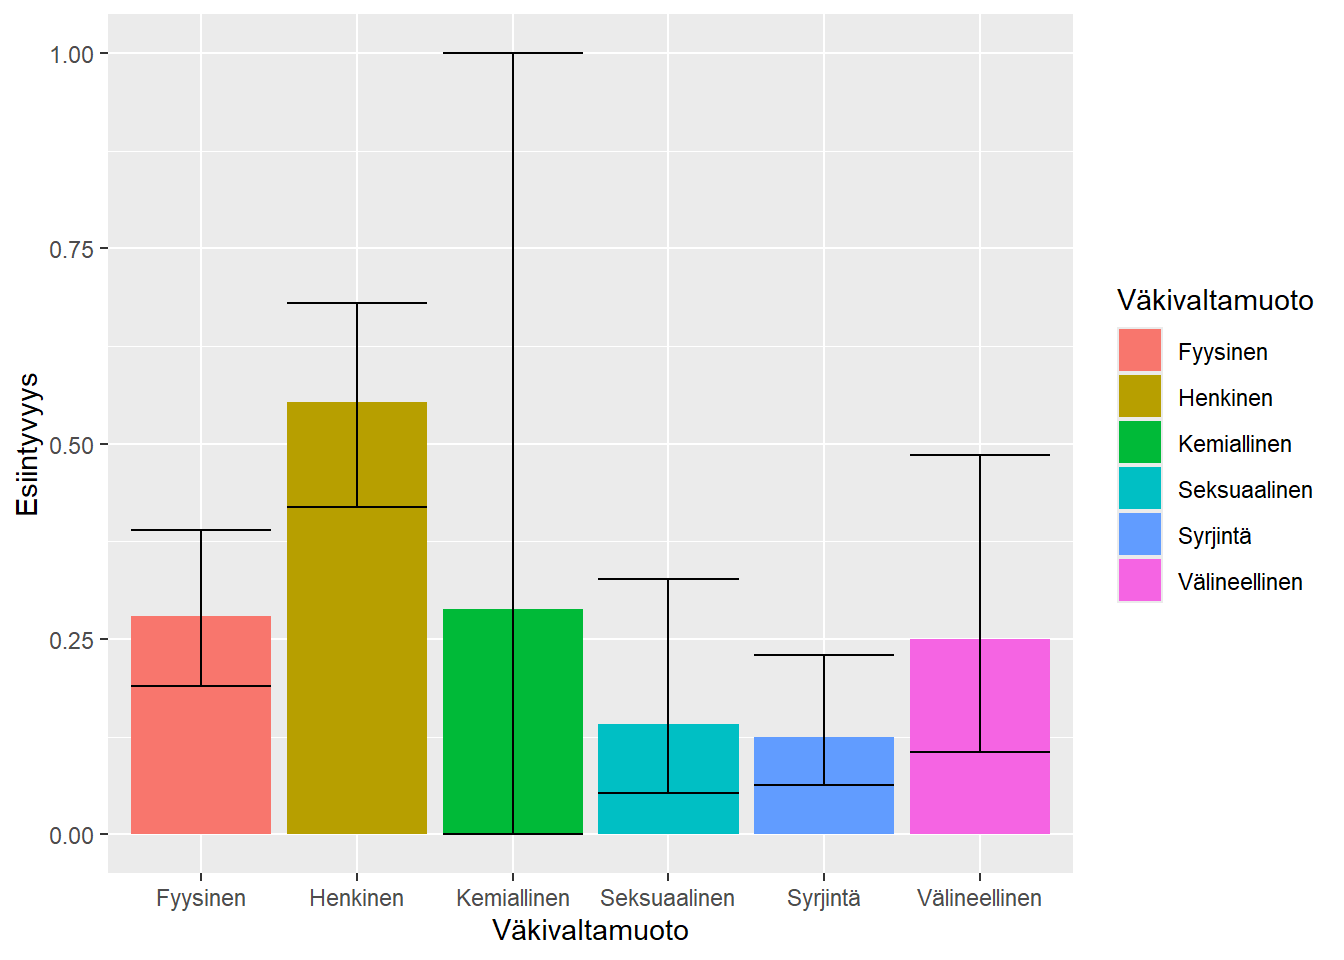
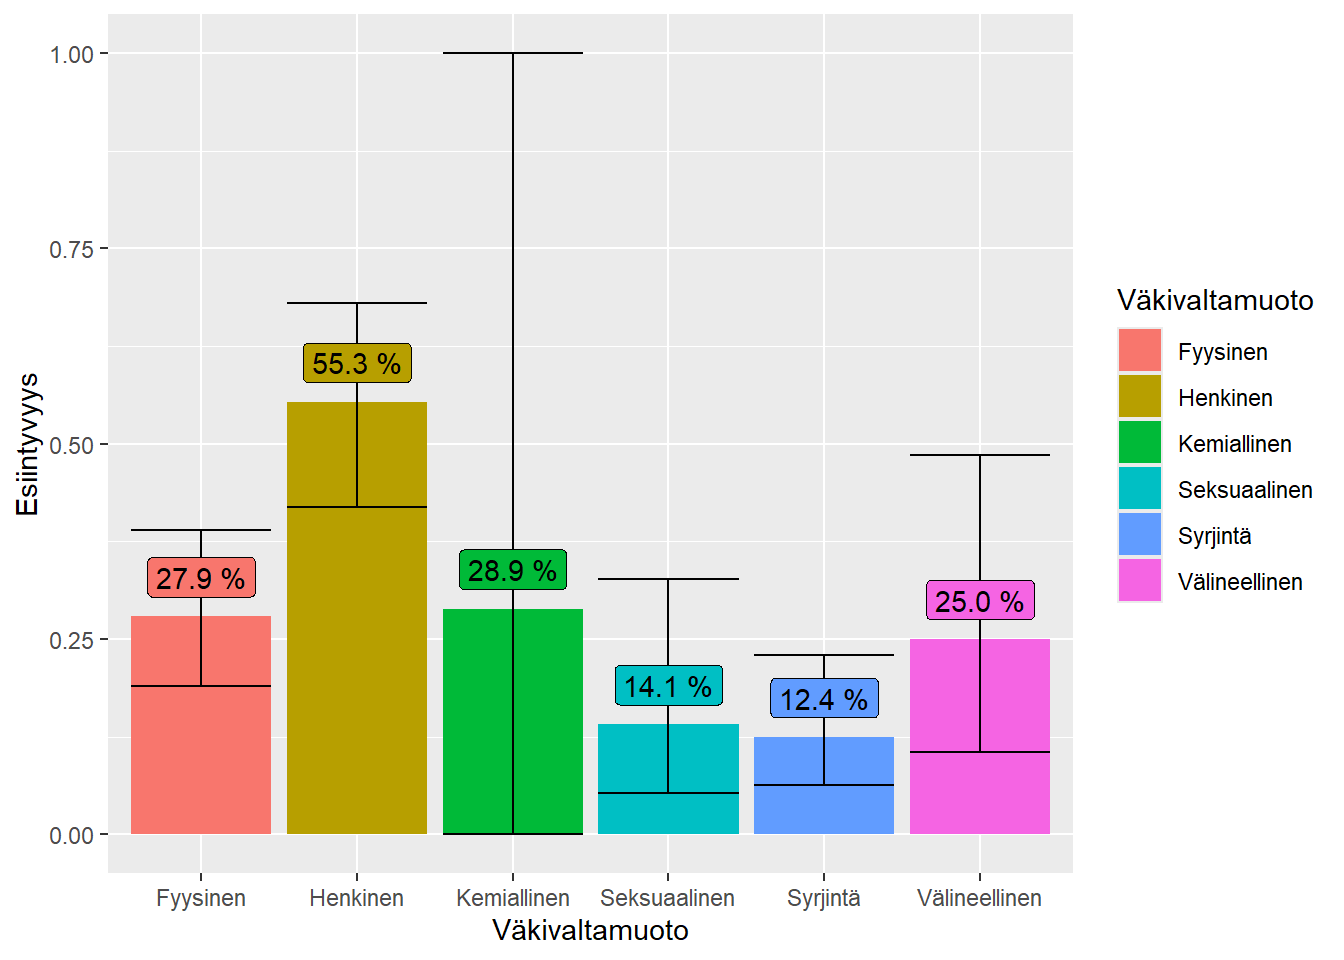
Renderöi katsausartikkeli uudelleen

diff --git a/docs/katsausartikkeli.html b/docs/katsausartikkeli.html
@@ -489,7 +489,7 @@ div.csl-indent {
 </details>
 <div id="fig-art-prismakaavio" class="quarto-figure quarto-figure-center anchored">
 <figure class="figure">
-<div class="grViz html-widget html-fill-item" id="htmlwidget-d63fc0f32b3adaeef1b4" style="width:100%;height:464px;"></div>
+<div class="grViz html-widget html-fill-item" id="htmlwidget-7070627f3425b7283b5b" style="width:100%;height:464px;"></div>
 <script>
 HTMLWidgets.addPostRenderHandler(function() {
 
@@ -508,7 +508,7 @@ HTMLWidgets.addPostRenderHandler(function() {
     
 });
 </script>
-<script type="application/json" data-for="htmlwidget-d63fc0f32b3adaeef1b4">{"x":{"diagram":"digraph TD {\n        graph[\n          splines = ortho,\n          layout = neato,\n          tooltip = \"Click the boxes for further information\",\n          outputorder = edgesfirst,\n        ]node [\n        shape = box,\n        fontsize = 11,\n        fontname = Helvetica,\n        color = Goldenrod1\n      ]\n      identification [\n        color = LightSteelBlue2,\n        label = \" \",\n        style = \"filled,rounded\",\n        pos = \"0,8.625!\",\n        width = 0.4,\n        height = 1.25,\n        tooltip = \"Sininen tunnistamisen laatikko\"\n      ];\n      screening [\n        color = LightSteelBlue2,\n        label = \" \",\n        style = \"filled,rounded\",\n        pos = \"0,5!\",\n        width = 0.4,\n        height = 4,\n        tooltip = \"Sininen seulonnan laatikko\"\n      ];\n      included [\n        color = LightSteelBlue2,\n        label = \" \",\n        style = \"filled,rounded\",\n        pos = \"0,1.25!\",\n        width = 0.4,\n        height = 2,\n        tooltip = \"Sininen sisällytettyjen laatikko\"\n      ];\nnode [\n          shape = box,\n          fontsize = 11,\n          fontname = Helvetica,\n          color = Goldenrod1]\n        3 [\n          label = \"Uusien tutkimusten tunnistaminen tietokantojen ja rekistereiden avulla\",\n          style = \"rounded,filled\",\n          width = 7.5,\n          height = 0.4,\n          pos = \"4.25,9.95!\",\n          tooltip = \"Keltainen otsikkolaatikko; Uusien tutkimusten tunnistaminen tietokantojen ja rekistereiden avulla\"\n        ]\n        node [\n          shape = box,\n          fontname = Helvetica,\n          color = Black]\n        4 [\n          label = \"Records identified from:\nTietokannat (n = 6,651)\nRekisterit (n = 0)\",\n          width = 3.5,\n          height = 0.75,\n          pos = \"2.25,8.625!\",\n          tooltip = \"Tietueet tunnistettu: tietokannoista ja rekistereistä\"\n        ]\n        node [\n          shape = box,\n          fontname = Helvetica,\n          color = Black]\n        5 [\n          label = \"Records removed before screening:\nKaksoiskappaleet (n = 1,215)\nAutomaatiotyökaluilla sopimattomiksi\nmerkityt tietueet (n = 0)\nMuista syistä poistetut tietueet (n = 0)\",\n          width = 3.5,\n          height = 0.5,\n          pos = \"6.25,8.625!\",\n          tooltip = \"Kaksoiskappaleet\"\n        ]\n        node [\n          shape = box,\n          fontname = Helvetica,\n          color = Black\n        ]\n        6 [\n          label = \"Seulotut tietueet\n(n = 5,436)\",\n          width = 3.5,\n          height = 0.5,\n          pos = \"2.25,6.75!\",\n          tooltip = \"Seulotut tietueet (tietokannat ja rekisterit)\"\n        ]\n        node [\n          shape = box,\n          fontname = Helvetica,\n          color = Black\n        ]\n        7 [\n          label = \"Poissuljetut tietueet\n(n = 5,200)\",\n          width = 3.5,\n          height = 0.5,\n          pos = \"6.25,6.75!\",\n          tooltip = \"Poissuljetut tietueet (tietokannat ja rekisterit)\"\n        ]\n        node [\n          shape = box,\n          fontname = Helvetica,\n          color = Black]\n        8 [\n          label = \"Haettavat raportit\n(n = 236)\",\n          width = 3.5,\n          height = 0.5,\n          pos = \"2.25,5.75!\",\n          tooltip = \"Haettavat raportit (tietokannat ja rekisterit)\"\n        ]\n        node [\n          shape = box,\n          fontname = Helvetica,\n          color = Black]\n        9 [\n          label = \"Hakematta jääneet raportit\n(n = 19)\",\n          width = 3.5,\n          height = 0.5,\n          pos = \"6.25,5.75!\",\n          tooltip = \"Hakematta jääneet raportit (tietokannat ja rekisterit)\"\n        ]\n        node [\n          shape = box,\n          fontname = Helvetica,\n          color = Black]\n        10 [\n          label = \"Kelpoisuudeltaan tarkistetut raportit\n(n = 217)\",\n          width = 3.5,\n          height = 0.5,\n          pos = \"2.25,4!\",\n          tooltip = \"Kelpoisuudeltaan tarkistetut raportit (tietokannat ja rekisterit)\"\n        ]\n        node [\n          shape = box,\n          fontname = Helvetica,\n          color = Black,\n          fillcolor = White,\n          style = filled\n        ]\n        11 [\n          label = \"Poissuljetut raportit:\nAihe (n = 31)\nAineistomuoto (n = 18)\nKohderyhmä (n = 36)\nMaantiede (n = 23)\nJulkaisutyyppi (n = 6)\nAjankohta (n = 2)\nMonisyinen (n = 41)\",\n          width = 3.5,\n          height = 0.5,\n          pos = \"6.25,4!\",\n          tooltip = \"Poissuljetut raportit (tietokannat ja rekisterit)\"\n        ]\n        node [\n          shape = box,\n          fontname = Helvetica,\n          color = Black,\n          fillcolor = \"\",\n          style = solid\n        ]\n        12 [\n          label = \"Katsaukseen sisällytetyt uudet\ntutkimukset\n(n = 61)\nRaportit katsaukseen sisällytetyistä\nuusista tutkimuksista\n(n = 0)\",\n          width = 3.5,\n          height = 1.5,\n          pos = \"2.25,1.25!\",\n          tooltip = \"Katsaukseen sisällytetyt uudet tutkimukset\"\n        ]node [\n        shape = box,\n        fontname = Helvetica,\n        color = Gainsboro]\n      13 [\n        label = \"Uusien tutkimusten tunnistaminen muilla menetemillä\",\n        style = \"rounded,filled\",\n        width = 7.5,\n        height = 0.4,\n        pos = \"12.25,9.95!\",\n        tooltip = \"Harmaa otsikkolaatikko; Uusien tutkimusten tunnistaminen muilla menetemillä\"\n      ]\n      node [\n        shape = box,\n        fontname = Helvetica,\n        color = Gainsboro]\n      14 [\n        label = \"Records identified from:\nVerkkosivut (n = 0)\nOrganisaatiot (n = 7)\nViitehakeminen (n = 0)\",\n        style = \"filled\",\n        width = 3.5,\n        height = 1,\n        pos = \"10.25,8.625!\",\n        tooltip = \"Tietueet tunnistettu: verkkosivuilta, organisaatioilta ja viitehakemisella\"\n      ]\n      node [\n        shape = box,\n        fontname = Helvetica,\n        color = Gainsboro]\n      15 [\n        label = \"Haettavat raportit\n(n = 7)\",\n        style = \"filled\",\n        width = 3.5,\n        height = 0.5,\n        pos = \"10.25,5.75!\",\n        tooltip = \"Haettavat raportit (muut)\"\n      ]\n      node [\n        shape = box,\n        fontname = Helvetica,\n        color = Gainsboro]\n      16 [\n        label = \"Hakematta jääneet raportit\n(n = 0)\",\n        style = \"filled\",\n        width = 3.5,\n        height = 0.5,\n        pos = \"14.25,5.75!\",\n        tooltip = \"Hakematta jääneet raportit (muut)\"\n      ]\n      node [\n        shape = box,\n        fontname = Helvetica,\n        color = Gainsboro\n      ]\n      17 [\n        label = \"Kelpoisuudeltaan tarkistetut raportit\n(n = 7)\",\n        style = \"filled\",\n        width = 3.5,\n        height = 0.5,\n        pos = \"10.25,4!\",\n        tooltip = \"Kelpoisuudeltaan tarkistetut raportit (muu)\"\n      ]\n      node [\n        shape = box,\n        fontname = Helvetica,\n        color = Gainsboro]\n      18 [\n        label = \"Poissuljetut raportit:\nAihe (n = 4)\nKohderyhmä (n = 1)\nMonisyinen (n = 1)\",\n        style = \"filled\",\n        width = 3.5,\n        height = 1,\n        pos = \"14.25,4!\",\n        tooltip = \"Poissuljetut raportit (muu)\"\n      ]\nnode [\n          shape = square,\n          width = 0,\n          color=White\n        ]\n\nB [\n        label = \"\",\n        pos = \"10.25,1.25!\",\n        tooltip = \"\"\n      ]\nnode [\n          shape = square,\n          width = 0,\n          style=invis\n        ]\n        C [\n          label = \"\",\n          width = 3.5,\n          height = 0.5,\n          pos = \"6.25,4!\",\n          tooltip = \"\"\n        ]\n        subgraph cluster1 {\n          edge [\n            style = invis\n          ]\n          3->4;\n          3->5;\n          edge [\n            color = Black,\n            arrowhead = normal,\n            arrowtail = none,\n            style = filled\n          ]\n          4->5;\n          4->6;\n          6->7;\n          6->8;\n          8->9;\n          8->10;\n          10->C;\n          10->12;\n          edge [\n            style = invis\n          ]\n          5->7;\n          7->9;\n          9->11;\n          16->18;\n        }subgraph cluster2 {\n        edge [\n          color = White,\n          arrowhead = none,\n          arrowtail = none\n        ]\n        13->14;\n        edge [\n          color = Black,\n          arrowhead = normal,\n          arrowtail = none]\n        14->15;\n        15->16;\n        15->17;\n        17->18;\n        edge [\n          color = Black,\n          arrowhead = none,\n          arrowtail = none]\n        17->B;\n        edge [\n          color = Black,\n          arrowhead = normal,\n          arrowtail = none,\n          constraint = FALSE\n        ]\n        B->12;\n      }\n\n\n\n{\n          rank = same; 3; 13}\n        {\n          rank = same; 4; 5; 14}\n        {\n          rank = same; 6; 7\n        }\n        {\n          rank = same; 8; 9; 15; 16}\n        {\n          rank = same; 10; 11; 17; 18}\n        {\n          rank = same; 12; B}\n      }","config":{"engine":"dot","options":null}},"evals":[],"jsHooks":[]}</script>
+<script type="application/json" data-for="htmlwidget-7070627f3425b7283b5b">{"x":{"diagram":"digraph TD {\n        graph[\n          splines = ortho,\n          layout = neato,\n          tooltip = \"Click the boxes for further information\",\n          outputorder = edgesfirst,\n        ]node [\n        shape = box,\n        fontsize = 11,\n        fontname = Helvetica,\n        color = Goldenrod1\n      ]\n      identification [\n        color = LightSteelBlue2,\n        label = \" \",\n        style = \"filled,rounded\",\n        pos = \"0,8.625!\",\n        width = 0.4,\n        height = 1.25,\n        tooltip = \"Sininen tunnistamisen laatikko\"\n      ];\n      screening [\n        color = LightSteelBlue2,\n        label = \" \",\n        style = \"filled,rounded\",\n        pos = \"0,5!\",\n        width = 0.4,\n        height = 4,\n        tooltip = \"Sininen seulonnan laatikko\"\n      ];\n      included [\n        color = LightSteelBlue2,\n        label = \" \",\n        style = \"filled,rounded\",\n        pos = \"0,1.25!\",\n        width = 0.4,\n        height = 2,\n        tooltip = \"Sininen sisällytettyjen laatikko\"\n      ];\nnode [\n          shape = box,\n          fontsize = 11,\n          fontname = Helvetica,\n          color = Goldenrod1]\n        3 [\n          label = \"Uusien tutkimusten tunnistaminen tietokantojen ja rekistereiden avulla\",\n          style = \"rounded,filled\",\n          width = 7.5,\n          height = 0.4,\n          pos = \"4.25,9.95!\",\n          tooltip = \"Keltainen otsikkolaatikko; Uusien tutkimusten tunnistaminen tietokantojen ja rekistereiden avulla\"\n        ]\n        node [\n          shape = box,\n          fontname = Helvetica,\n          color = Black]\n        4 [\n          label = \"Records identified from:\nTietokannat (n = 6,651)\nRekisterit (n = 0)\",\n          width = 3.5,\n          height = 0.75,\n          pos = \"2.25,8.625!\",\n          tooltip = \"Tietueet tunnistettu: tietokannoista ja rekistereistä\"\n        ]\n        node [\n          shape = box,\n          fontname = Helvetica,\n          color = Black]\n        5 [\n          label = \"Records removed before screening:\nKaksoiskappaleet (n = 1,215)\nAutomaatiotyökaluilla sopimattomiksi\nmerkityt tietueet (n = 0)\nMuista syistä poistetut tietueet (n = 0)\",\n          width = 3.5,\n          height = 0.5,\n          pos = \"6.25,8.625!\",\n          tooltip = \"Kaksoiskappaleet\"\n        ]\n        node [\n          shape = box,\n          fontname = Helvetica,\n          color = Black\n        ]\n        6 [\n          label = \"Seulotut tietueet\n(n = 5,436)\",\n          width = 3.5,\n          height = 0.5,\n          pos = \"2.25,6.75!\",\n          tooltip = \"Seulotut tietueet (tietokannat ja rekisterit)\"\n        ]\n        node [\n          shape = box,\n          fontname = Helvetica,\n          color = Black\n        ]\n        7 [\n          label = \"Poissuljetut tietueet\n(n = 5,200)\",\n          width = 3.5,\n          height = 0.5,\n          pos = \"6.25,6.75!\",\n          tooltip = \"Poissuljetut tietueet (tietokannat ja rekisterit)\"\n        ]\n        node [\n          shape = box,\n          fontname = Helvetica,\n          color = Black]\n        8 [\n          label = \"Haettavat raportit\n(n = 236)\",\n          width = 3.5,\n          height = 0.5,\n          pos = \"2.25,5.75!\",\n          tooltip = \"Haettavat raportit (tietokannat ja rekisterit)\"\n        ]\n        node [\n          shape = box,\n          fontname = Helvetica,\n          color = Black]\n        9 [\n          label = \"Hakematta jääneet raportit\n(n = 19)\",\n          width = 3.5,\n          height = 0.5,\n          pos = \"6.25,5.75!\",\n          tooltip = \"Hakematta jääneet raportit (tietokannat ja rekisterit)\"\n        ]\n        node [\n          shape = box,\n          fontname = Helvetica,\n          color = Black]\n        10 [\n          label = \"Kelpoisuudeltaan tarkistetut raportit\n(n = 217)\",\n          width = 3.5,\n          height = 0.5,\n          pos = \"2.25,4!\",\n          tooltip = \"Kelpoisuudeltaan tarkistetut raportit (tietokannat ja rekisterit)\"\n        ]\n        node [\n          shape = box,\n          fontname = Helvetica,\n          color = Black,\n          fillcolor = White,\n          style = filled\n        ]\n        11 [\n          label = \"Poissuljetut raportit:\nAihe (n = 31)\nAineistomuoto (n = 18)\nKohderyhmä (n = 36)\nMaantiede (n = 23)\nJulkaisutyyppi (n = 6)\nAjankohta (n = 2)\nMonisyinen (n = 41)\",\n          width = 3.5,\n          height = 0.5,\n          pos = \"6.25,4!\",\n          tooltip = \"Poissuljetut raportit (tietokannat ja rekisterit)\"\n        ]\n        node [\n          shape = box,\n          fontname = Helvetica,\n          color = Black,\n          fillcolor = \"\",\n          style = solid\n        ]\n        12 [\n          label = \"Katsaukseen sisällytetyt uudet\ntutkimukset\n(n = 61)\nRaportit katsaukseen sisällytetyistä\nuusista tutkimuksista\n(n = 0)\",\n          width = 3.5,\n          height = 1.5,\n          pos = \"2.25,1.25!\",\n          tooltip = \"Katsaukseen sisällytetyt uudet tutkimukset\"\n        ]node [\n        shape = box,\n        fontname = Helvetica,\n        color = Gainsboro]\n      13 [\n        label = \"Uusien tutkimusten tunnistaminen muilla menetemillä\",\n        style = \"rounded,filled\",\n        width = 7.5,\n        height = 0.4,\n        pos = \"12.25,9.95!\",\n        tooltip = \"Harmaa otsikkolaatikko; Uusien tutkimusten tunnistaminen muilla menetemillä\"\n      ]\n      node [\n        shape = box,\n        fontname = Helvetica,\n        color = Gainsboro]\n      14 [\n        label = \"Records identified from:\nVerkkosivut (n = 0)\nOrganisaatiot (n = 7)\nViitehakeminen (n = 0)\",\n        style = \"filled\",\n        width = 3.5,\n        height = 1,\n        pos = \"10.25,8.625!\",\n        tooltip = \"Tietueet tunnistettu: verkkosivuilta, organisaatioilta ja viitehakemisella\"\n      ]\n      node [\n        shape = box,\n        fontname = Helvetica,\n        color = Gainsboro]\n      15 [\n        label = \"Haettavat raportit\n(n = 7)\",\n        style = \"filled\",\n        width = 3.5,\n        height = 0.5,\n        pos = \"10.25,5.75!\",\n        tooltip = \"Haettavat raportit (muut)\"\n      ]\n      node [\n        shape = box,\n        fontname = Helvetica,\n        color = Gainsboro]\n      16 [\n        label = \"Hakematta jääneet raportit\n(n = 0)\",\n        style = \"filled\",\n        width = 3.5,\n        height = 0.5,\n        pos = \"14.25,5.75!\",\n        tooltip = \"Hakematta jääneet raportit (muut)\"\n      ]\n      node [\n        shape = box,\n        fontname = Helvetica,\n        color = Gainsboro\n      ]\n      17 [\n        label = \"Kelpoisuudeltaan tarkistetut raportit\n(n = 7)\",\n        style = \"filled\",\n        width = 3.5,\n        height = 0.5,\n        pos = \"10.25,4!\",\n        tooltip = \"Kelpoisuudeltaan tarkistetut raportit (muu)\"\n      ]\n      node [\n        shape = box,\n        fontname = Helvetica,\n        color = Gainsboro]\n      18 [\n        label = \"Poissuljetut raportit:\nAihe (n = 4)\nKohderyhmä (n = 1)\nMonisyinen (n = 1)\",\n        style = \"filled\",\n        width = 3.5,\n        height = 1,\n        pos = \"14.25,4!\",\n        tooltip = \"Poissuljetut raportit (muu)\"\n      ]\nnode [\n          shape = square,\n          width = 0,\n          color=White\n        ]\n\nB [\n        label = \"\",\n        pos = \"10.25,1.25!\",\n        tooltip = \"\"\n      ]\nnode [\n          shape = square,\n          width = 0,\n          style=invis\n        ]\n        C [\n          label = \"\",\n          width = 3.5,\n          height = 0.5,\n          pos = \"6.25,4!\",\n          tooltip = \"\"\n        ]\n        subgraph cluster1 {\n          edge [\n            style = invis\n          ]\n          3->4;\n          3->5;\n          edge [\n            color = Black,\n            arrowhead = normal,\n            arrowtail = none,\n            style = filled\n          ]\n          4->5;\n          4->6;\n          6->7;\n          6->8;\n          8->9;\n          8->10;\n          10->C;\n          10->12;\n          edge [\n            style = invis\n          ]\n          5->7;\n          7->9;\n          9->11;\n          16->18;\n        }subgraph cluster2 {\n        edge [\n          color = White,\n          arrowhead = none,\n          arrowtail = none\n        ]\n        13->14;\n        edge [\n          color = Black,\n          arrowhead = normal,\n          arrowtail = none]\n        14->15;\n        15->16;\n        15->17;\n        17->18;\n        edge [\n          color = Black,\n          arrowhead = none,\n          arrowtail = none]\n        17->B;\n        edge [\n          color = Black,\n          arrowhead = normal,\n          arrowtail = none,\n          constraint = FALSE\n        ]\n        B->12;\n      }\n\n\n\n{\n          rank = same; 3; 13}\n        {\n          rank = same; 4; 5; 14}\n        {\n          rank = same; 6; 7\n        }\n        {\n          rank = same; 8; 9; 15; 16}\n        {\n          rank = same; 10; 11; 17; 18}\n        {\n          rank = same; 12; B}\n      }","config":{"engine":"dot","options":null}},"evals":[],"jsHooks":[]}</script>
 <figcaption class="figure-caption">Kuva&nbsp;6.1: Systemaattisen krijallisuuskatsauksen PRISMA2020-protokollan mukainen kulkukaavio. Kaavio sisältää tiedot hauista 1-4 ja 6.</figcaption>
 </figure>
 </div>
@@ -1391,13 +1391,18 @@ HTMLWidgets.addPostRenderHandler(function() {
 <span id="cb28-6"><a href="#cb28-6" aria-hidden="true" tabindex="-1"></a>    <span class="at">x =</span> <span class="st">"Väkivaltamuoto"</span>,</span>
 <span id="cb28-7"><a href="#cb28-7" aria-hidden="true" tabindex="-1"></a>    <span class="at">y =</span> <span class="st">"Esiintyvyys"</span>,</span>
 <span id="cb28-8"><a href="#cb28-8" aria-hidden="true" tabindex="-1"></a>    <span class="at">fill =</span> <span class="st">"Väkivaltamuoto"</span></span>
-<span id="cb28-9"><a href="#cb28-9" aria-hidden="true" tabindex="-1"></a>  )</span></code><button title="Kopioi leikepöydälle" class="code-copy-button"><i class="bi"></i></button></pre></div>
+<span id="cb28-9"><a href="#cb28-9" aria-hidden="true" tabindex="-1"></a>  ) <span class="sc">+</span></span>
+<span id="cb28-10"><a href="#cb28-10" aria-hidden="true" tabindex="-1"></a>  <span class="fu">geom_label</span>(</span>
+<span id="cb28-11"><a href="#cb28-11" aria-hidden="true" tabindex="-1"></a>    <span class="fu">aes</span>(<span class="at">label =</span> <span class="fu">paste</span>(<span class="fu">format</span>(arvo<span class="sc">*</span><span class="dv">100</span>, <span class="at">digits =</span> <span class="dv">3</span>), <span class="st">"%"</span>)),</span>
+<span id="cb28-12"><a href="#cb28-12" aria-hidden="true" tabindex="-1"></a>    <span class="at">vjust =</span> <span class="sc">-</span><span class="fl">0.5</span>,</span>
+<span id="cb28-13"><a href="#cb28-13" aria-hidden="true" tabindex="-1"></a>    <span class="at">show.legend =</span> <span class="cn">FALSE</span></span>
+<span id="cb28-14"><a href="#cb28-14" aria-hidden="true" tabindex="-1"></a>  )</span></code><button title="Kopioi leikepöydälle" class="code-copy-button"><i class="bi"></i></button></pre></div>
 </details>
 <div class="cell-output-display">
 <div id="fig-tulokset" class="quarto-figure quarto-figure-center anchored">
 <figure class="figure">
 <p><img src="katsausartikkeli_files/figure-html/fig-tulokset-1.png" class="img-fluid figure-img" width="672"></p>
-<figcaption class="figure-caption">Kuva&nbsp;6.15: Meta-analyysin arvioimat esiintyvyydet ja niiden luottamusvälit (95 %) desimaaleissa</figcaption>
+<figcaption class="figure-caption">Kuva&nbsp;6.15: Meta-analyysin arvioimat esiintyvyydet ja niiden luottamusvälit (95 %)</figcaption>
 </figure>
 </div>
 </div>
@@ -1730,7 +1735,7 @@ window.document.addEventListener("DOMContentLoaded", function (event) {
 <span id="cb29-2"><a href="#cb29-2" aria-hidden="true" tabindex="-1"></a></span>
 <span id="cb29-3"><a href="#cb29-3" aria-hidden="true" tabindex="-1"></a>---</span>
 <span id="cb29-4"><a href="#cb29-4" aria-hidden="true" tabindex="-1"></a>eval: true</span>
-<span id="cb29-5"><a href="#cb29-5" aria-hidden="true" tabindex="-1"></a>freeze: true</span>
+<span id="cb29-5"><a href="#cb29-5" aria-hidden="true" tabindex="-1"></a>freeze: false</span>
 <span id="cb29-6"><a href="#cb29-6" aria-hidden="true" tabindex="-1"></a>format:</span>
 <span id="cb29-7"><a href="#cb29-7" aria-hidden="true" tabindex="-1"></a>  html:</span>
 <span id="cb29-8"><a href="#cb29-8" aria-hidden="true" tabindex="-1"></a>    code-tools: true</span>
